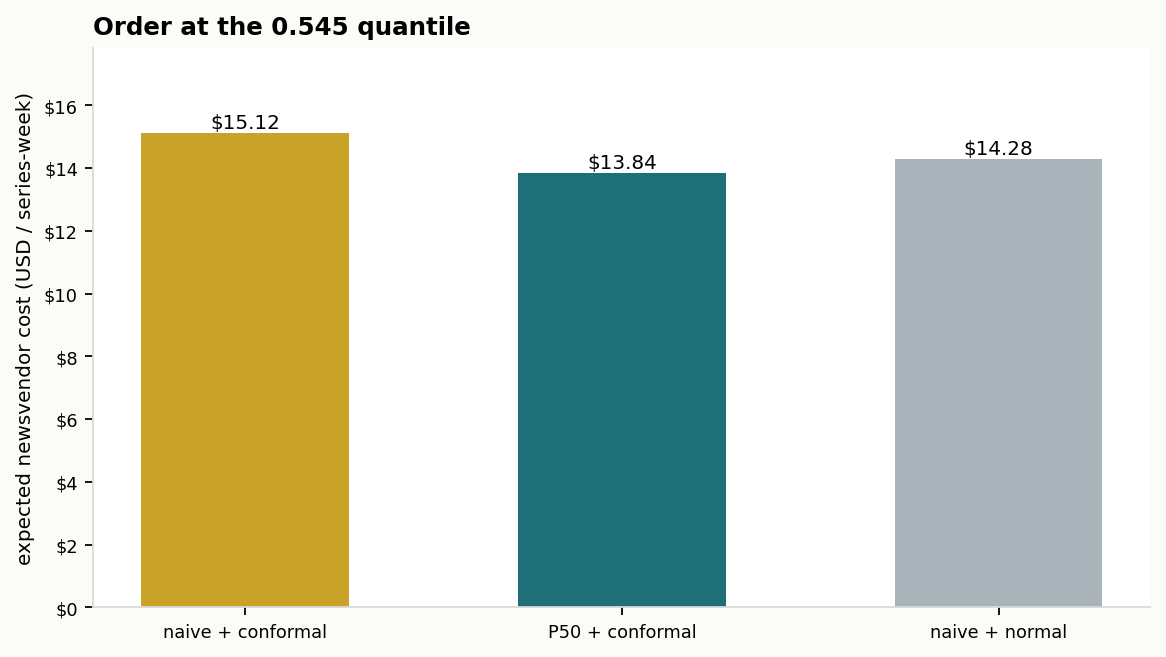
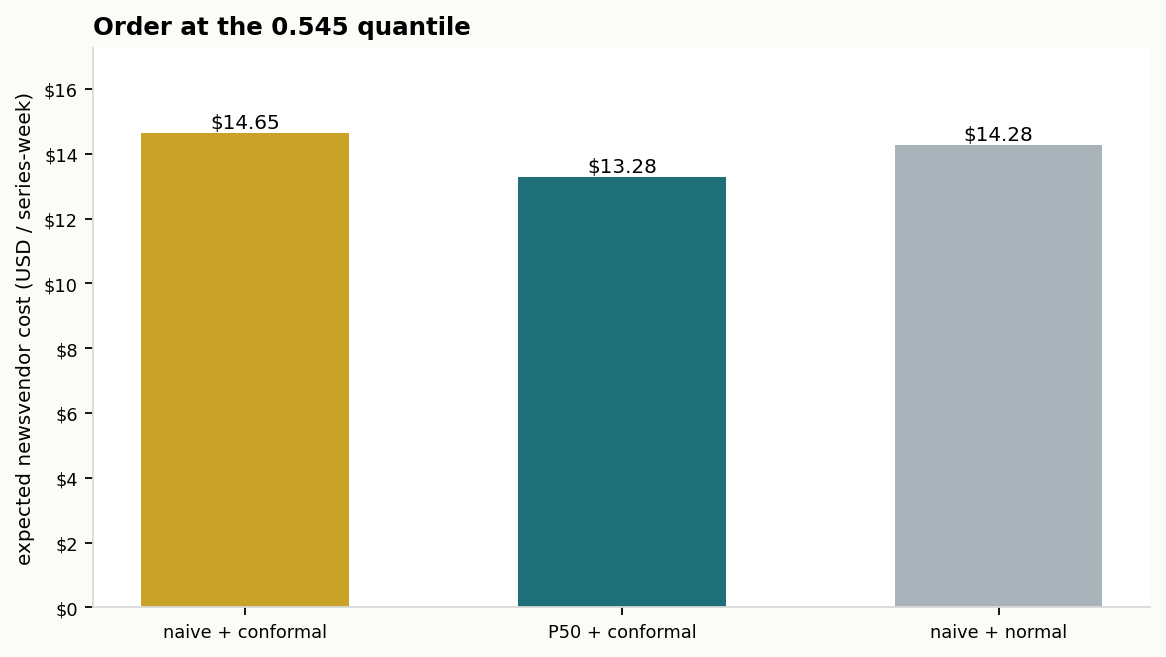
fix: 校准分位改用精确次序统计量，补订货成本降幅

diff --git a/m5/src/probabilistic.py b/m5/src/probabilistic.py
@@ -39,8 +39,11 @@ def conformal_quantile(residuals: np.ndarray, tau: float) -> float:
     n = len(residuals)
     if n == 0:
         return 0.0
-    level = min(1.0, np.ceil((n + 1) * tau) / n)
-    return float(np.quantile(residuals, level, method="higher"))
+    # Split-conformal finite-sample order statistic: k = ceil((n+1)*tau),
+    # clipped to [1, n].  Do not pass k/n to np.quantile("higher"): that
+    # returns the (k+1)-th order statistic for n=16, tau≈0.545.
+    k = min(max(int(np.ceil((n + 1) * tau)), 1), n)
+    return float(np.sort(residuals)[k - 1])
 
 
 def dm_test(errors_a: np.ndarray, errors_b: np.ndarray, power: float = 1.0) -> tuple[float, float]:

diff --git a/m5/tests/test_probabilistic.py b/m5/tests/test_probabilistic.py
@@ -45,6 +45,11 @@ class TestConformal(unittest.TestCase):
         self.assertGreaterEqual(value, 5)
         self.assertLessEqual(value, 10)
 
+    def test_finite_sample_uses_exact_order_statistic(self):
+        residuals = np.arange(1, 17, dtype=float)  # n=16
+        # k = ceil(17 * 0.545) = 10 -> 10th smallest value = 10.0
+        self.assertEqual(conformal_quantile(residuals, 0.545), 10.0)
+
 
 class TestIntervals(unittest.TestCase):
     def test_coverage_and_width(self):

diff --git a/README.md b/README.md
@@ -169,7 +169,7 @@ python scripts/forecast_diagnostics.py --holdout 12 --underage 0.4
 
 - 点预测：LightGBM 残差，单窗口 FVA +6.4%；六折滚动 +4.3% ± 2.9%
 - 概率预测：P10/P50/P90 + conformal，80% 区间覆盖 80.8%
-- 订货：P50+conformal 的 newsvendor 成本 $13.84，比 naive+conformal 低 8.4%
+- 订货：P50+conformal 的 newsvendor 成本 $13.28，比 naive+conformal 低 9.3%
 - 分层：114 个节点，bottom-up 赢 MinT-OLS
 
 详细结果、图和复现命令见 [`m5/README.md`](m5/README.md)。
